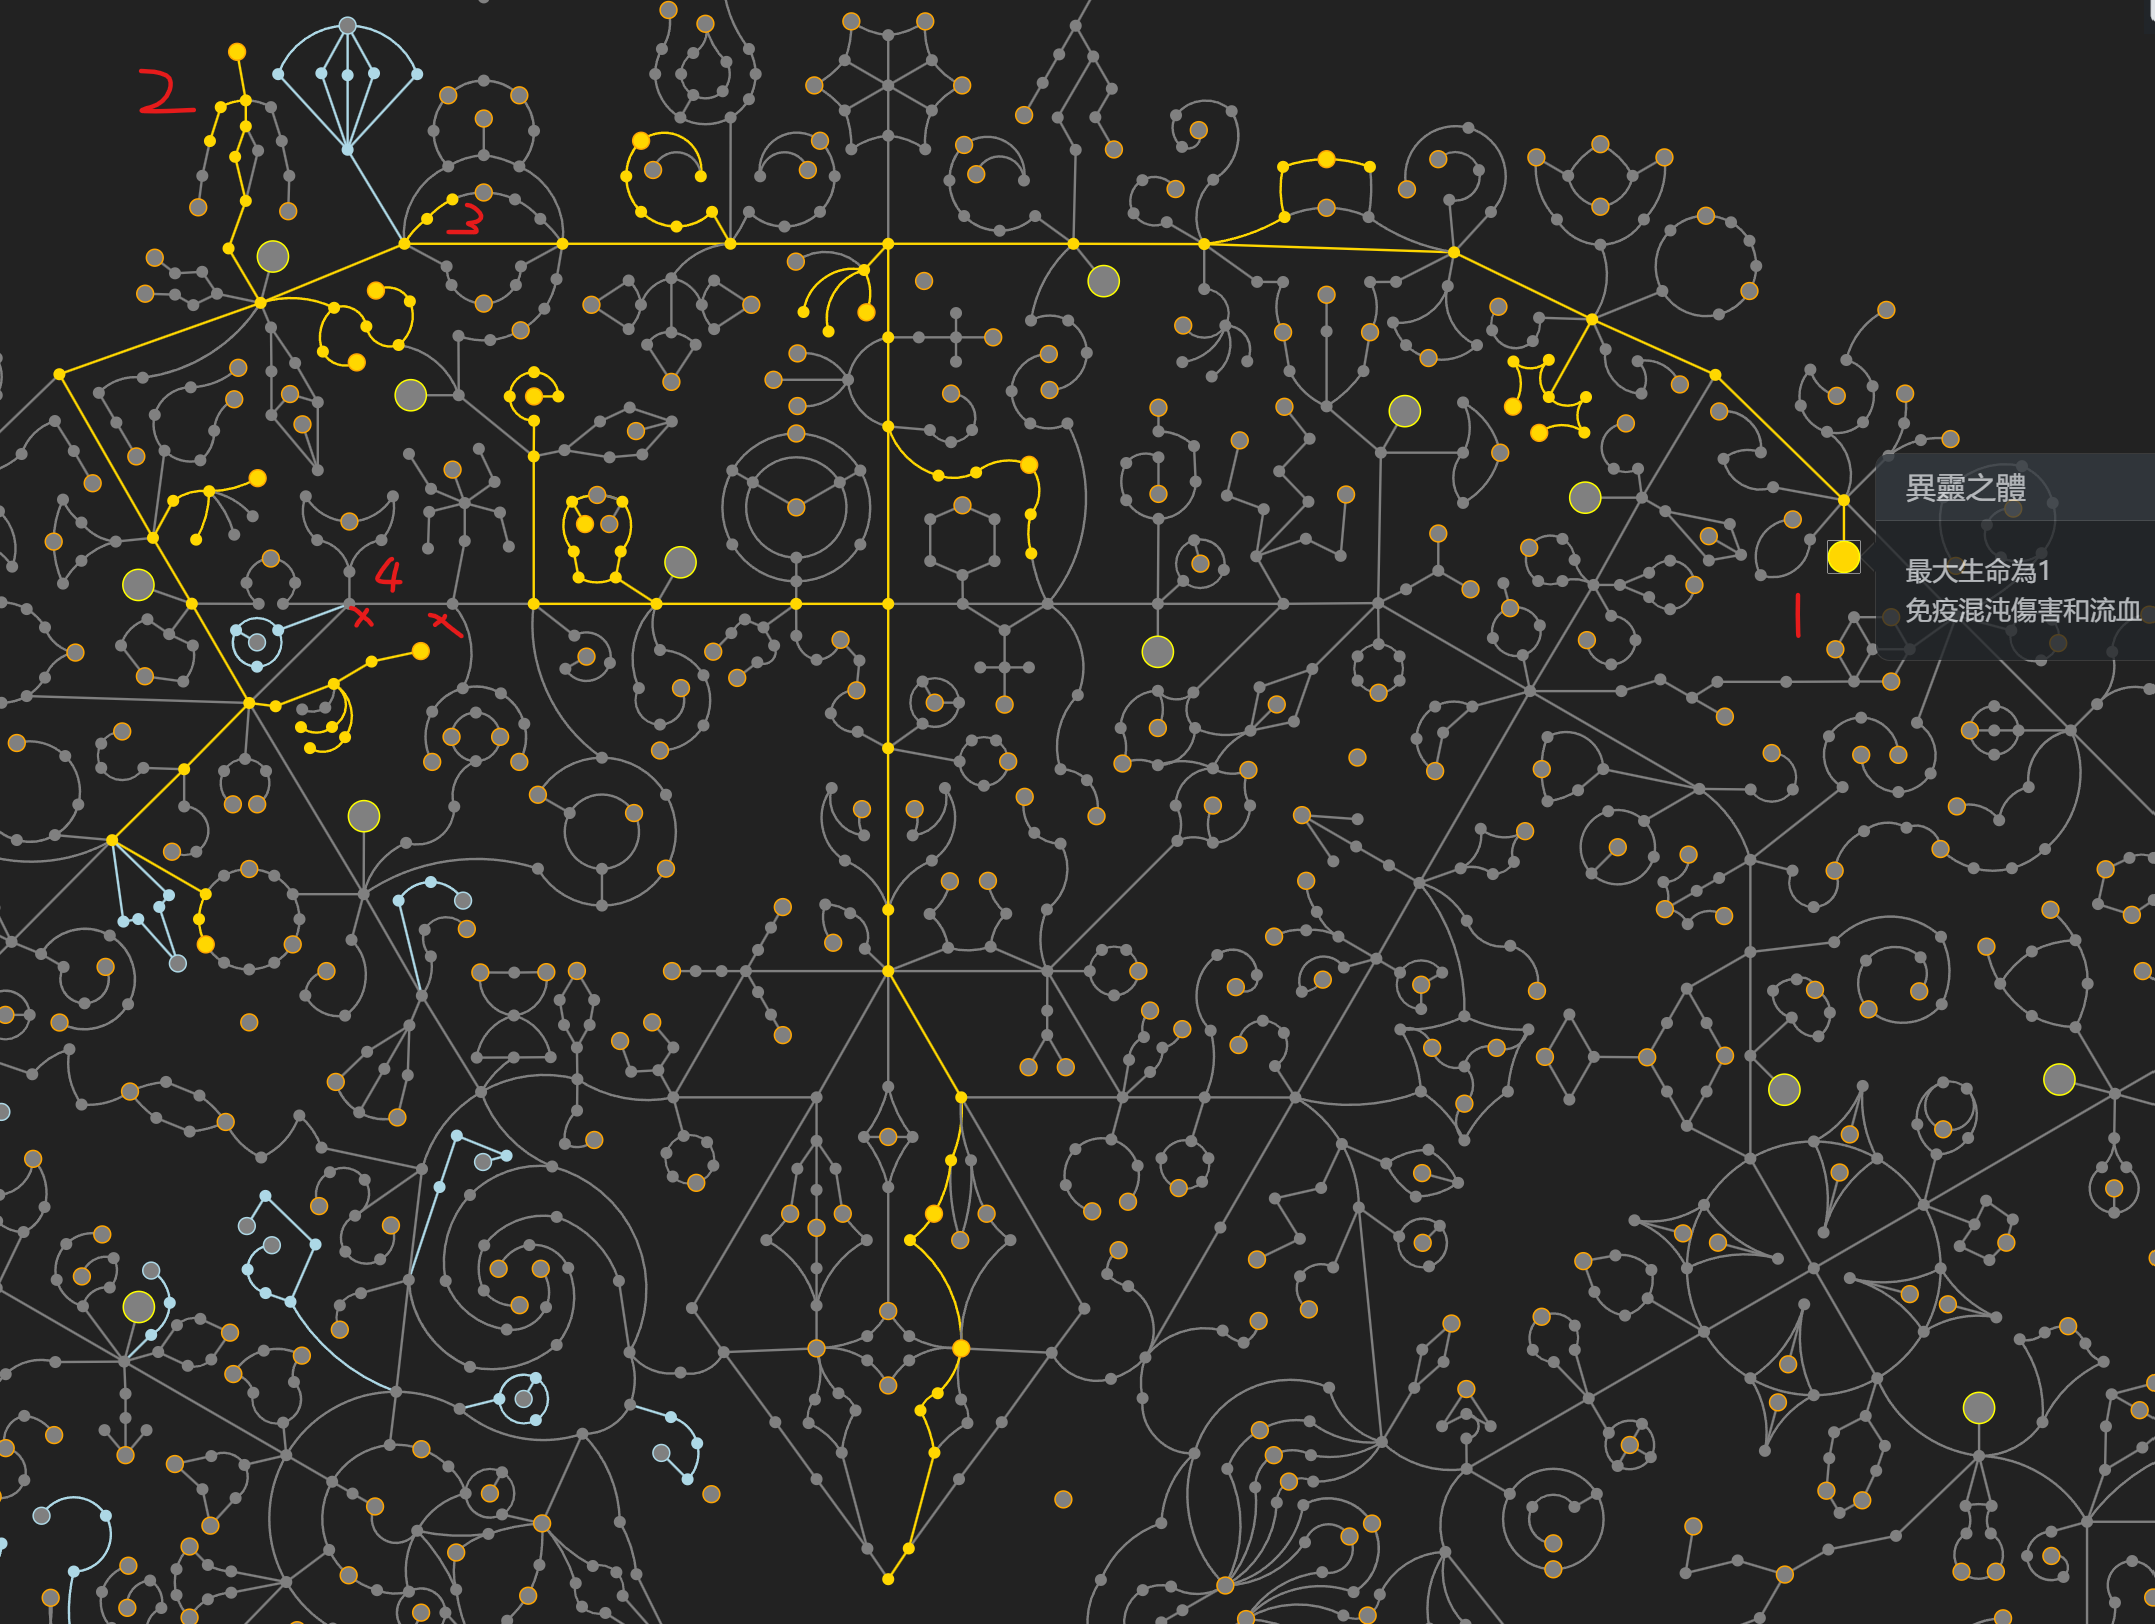
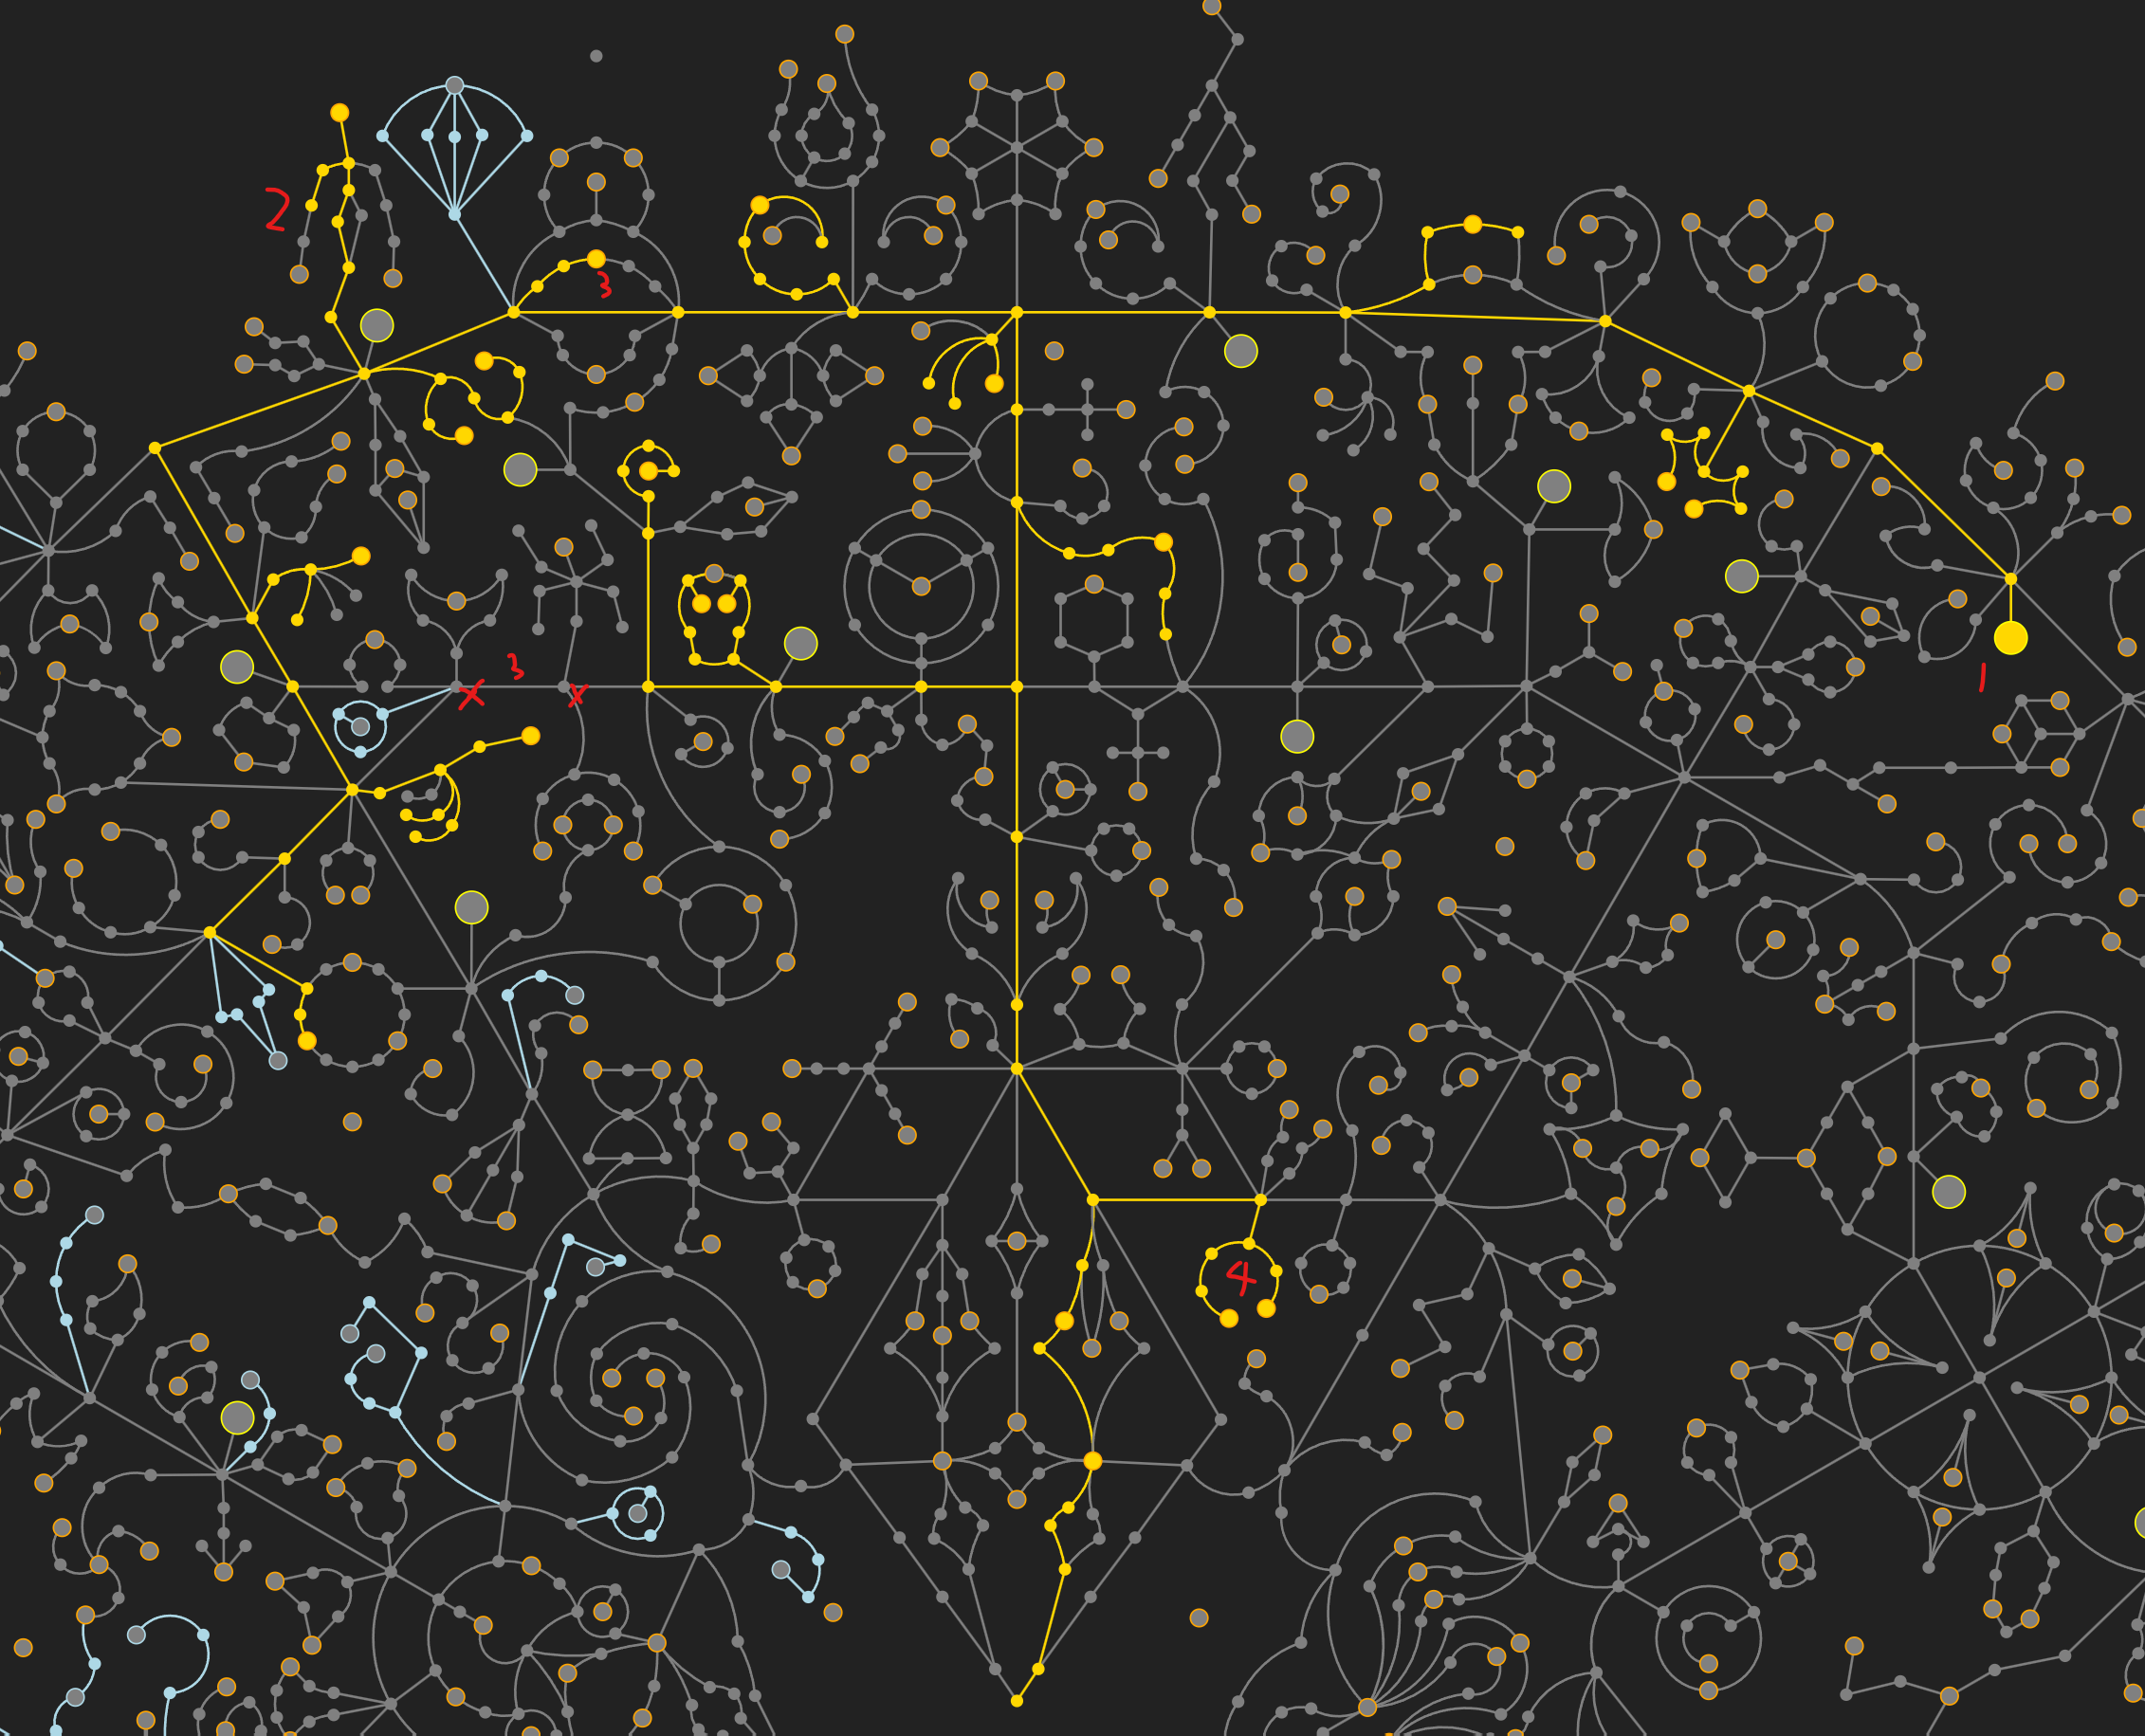
123

Changed region(s): [[0.0, 0.0, 1.0, 1.0], [0.9949, 0.0, 1.0, 0.0308], [0.5596, 0.0, 0.5907, 0.0308]]

diff --git a/poe-2-tips/index.html b/poe-2-tips/index.html
@@ -151,7 +151,10 @@
     <li><a href="#四舆图指南">四、舆图指南</a>
       <ul>
         <li><a href="#舆图前期">舆图前期</a></li>
-        <li><a href="#舆图后期">舆图后期</a></li>
+        <li><a href="#舆图天赋">舆图天赋</a></li>
+        <li><a href="#终局玩法">终局玩法</a></li>
+        <li><a href="#舆图大师天赋">舆图大师天赋</a></li>
+        <li><a href="#舆图后期1血bd">舆图后期1血BD</a></li>
       </ul>
     </li>
   </ul>
@@ -411,6 +414,7 @@
 <p>带【冰痕】词缀的【疫源收割者】制造出冰地面后，用【纳维拉的封冻】大范围AOE清小怪、冰冻精英怪和BOSS。</p>
 <p>打BOSS和精英怪继续先用【克拉里的残酷】再用【克拉里的欺瞒】循环，触发无冷却就连续使用【克拉里的欺瞒】。</p>
 <p>【纳维拉的拥抱】给自己上护盾，看情况用。</p>
+<p>进舆图（异界）之前，可以先去把升华3做了，升华天赋点出【第四教诲】。</p>
 <h2 id="四舆图指南">四、舆图指南</h2>
 <h3 id="舆图前期">舆图前期</h3>
 <h4 id="1天赋加点-5">1、天赋加点</h4>
@@ -429,33 +433,44 @@
 <h4 id="3装备词缀">3、装备词缀</h4>
 <ul>
 <li>武器：增加召唤物等级。</li>
-<li>法器：增加召唤物等级。</li>
-<li>头盔：增加召唤物等级。</li>
+<li>法器：增加召唤物等级，高护盾。</li>
+<li>头盔：增加召唤物等级，高护盾。</li>
 <li>项链：增加召唤物等级、增加精魂。</li>
 <li>衣服：增加精魂、高护盾。</li>
 <li>鞋子：高移速。</li>
-<li>装备上的其他词缀：护盾、补缺乏的抗性和属性、血量（1血BD不要血量）。</li>
+<li>装备上的其他词缀：护盾、补抗性和属性、血量（1血BD不要血量）。</li>
 <li>咒符：免疫点燃/冰冻/减速。</li>
 <li>珠宝词缀：召唤物伤害、召唤物暴击率、召唤物爆伤。</li>
 </ul>
 <h4 id="4要点提示-5">4、要点提示</h4>
 <p>进入舆图后，先按照指引从起始点直奔起源高塔区域，做前置任务（东西大门进入打2个BOSS拿道具）解锁起源高塔区域入口，进入后还有再做前置任务（区域内打2个BOSS拿道具），然后进入起源高塔打【神圣仲裁者】，其他区域不用管。</p>
 <p>打了【神圣仲裁者】解锁舆图天赋，接着启动主教之墙高塔（获得整个区域所有天赋点），点出天赋再去刷图效率倍增。</p>
-<p>舆图天赋推荐：</p>
+<p>80级左右可以去打升华4，如果有不错的圣物就去打【丝克玛试炼】：</p>
+<ul>
+<li>这次有4个大关，第4关最终BOSSS时停之后，要在倒计时结束前去碰所有的小沙漏，翻滚比跑的快，不然会被机制秒杀。</li>
+<li>堆高荣誉抗性和对BOSS增伤，流程祝福奖励选对敌人增伤的/减少敌人血量，追求速杀反而容易过关。</li>
+<li>升华天赋点出【神圣仪式】，为以后转1血BD做准备。</li>
+</ul>
+<h3 id="舆图天赋">舆图天赋</h3>
+<p>解锁舆图天赋后推荐：</p>
 <ul>
 <li>先往上到顶点出2个最大词缀+1。</li>
 <li>再把下半部分区域所有蓝怪黄怪相关的加成都点出来。</li>
 <li>接着点自己想刷的相关天赋。</li>
 <li>其他玩法天赋没有点满之前不要刷（收益极差）。</li>
 </ul>
-<p>独狼模式先去解锁【迷雾】（过剧情就解锁涂油）【深渊】【祭坛】 ，法系BD不推荐刷【裂隙】（产出项链戒指腰带对法系影响不大）。交易模式随意，可以交易不会被卡资源。</p>
-<p>解锁2个主要玩法后，去拿大师天赋：</p>
+<h3 id="终局玩法">终局玩法</h3>
+<p>独狼模式先去解锁【迷雾】（过剧情解锁涂油）、【深渊】、【祭坛】 。</p>
+<p>法系BD不推荐刷【裂隙】，产出项链戒指腰带对法系用处不大。</p>
+<p>普通模式随意，可以交易不会被卡资源。</p>
+<h3 id="舆图大师天赋">舆图大师天赋</h3>
+<p>解锁2个主要玩法后，找对应NPC做任务拿舆图大师天赋：</p>
 <ul>
 <li>多里亚尼的科学：打3个腐化核心区域获得3个大师点，再去打腐化被净化后随机生成的禁锢之怒地图。推荐点出1-1、1-2、2-2、3-3</li>
 <li>希尔妲的狩猎：按要求去特定位置打BOSS获得大师点。</li>
 <li>贾多的谍报技术：四种特殊辅助的地图打完获得4个大师点。</li>
 </ul>
-<h3 id="舆图后期">舆图后期</h3>
+<h3 id="舆图后期1血bd">舆图后期1血BD</h3>
 <p>打了升华3和4，也有了【维里西姆强化】技能，直接转1血BD。</p>
 <h4 id="1天赋加点-6">1、天赋加点</h4>
 <p><img src="/img/poe12.png" alt=""></p>